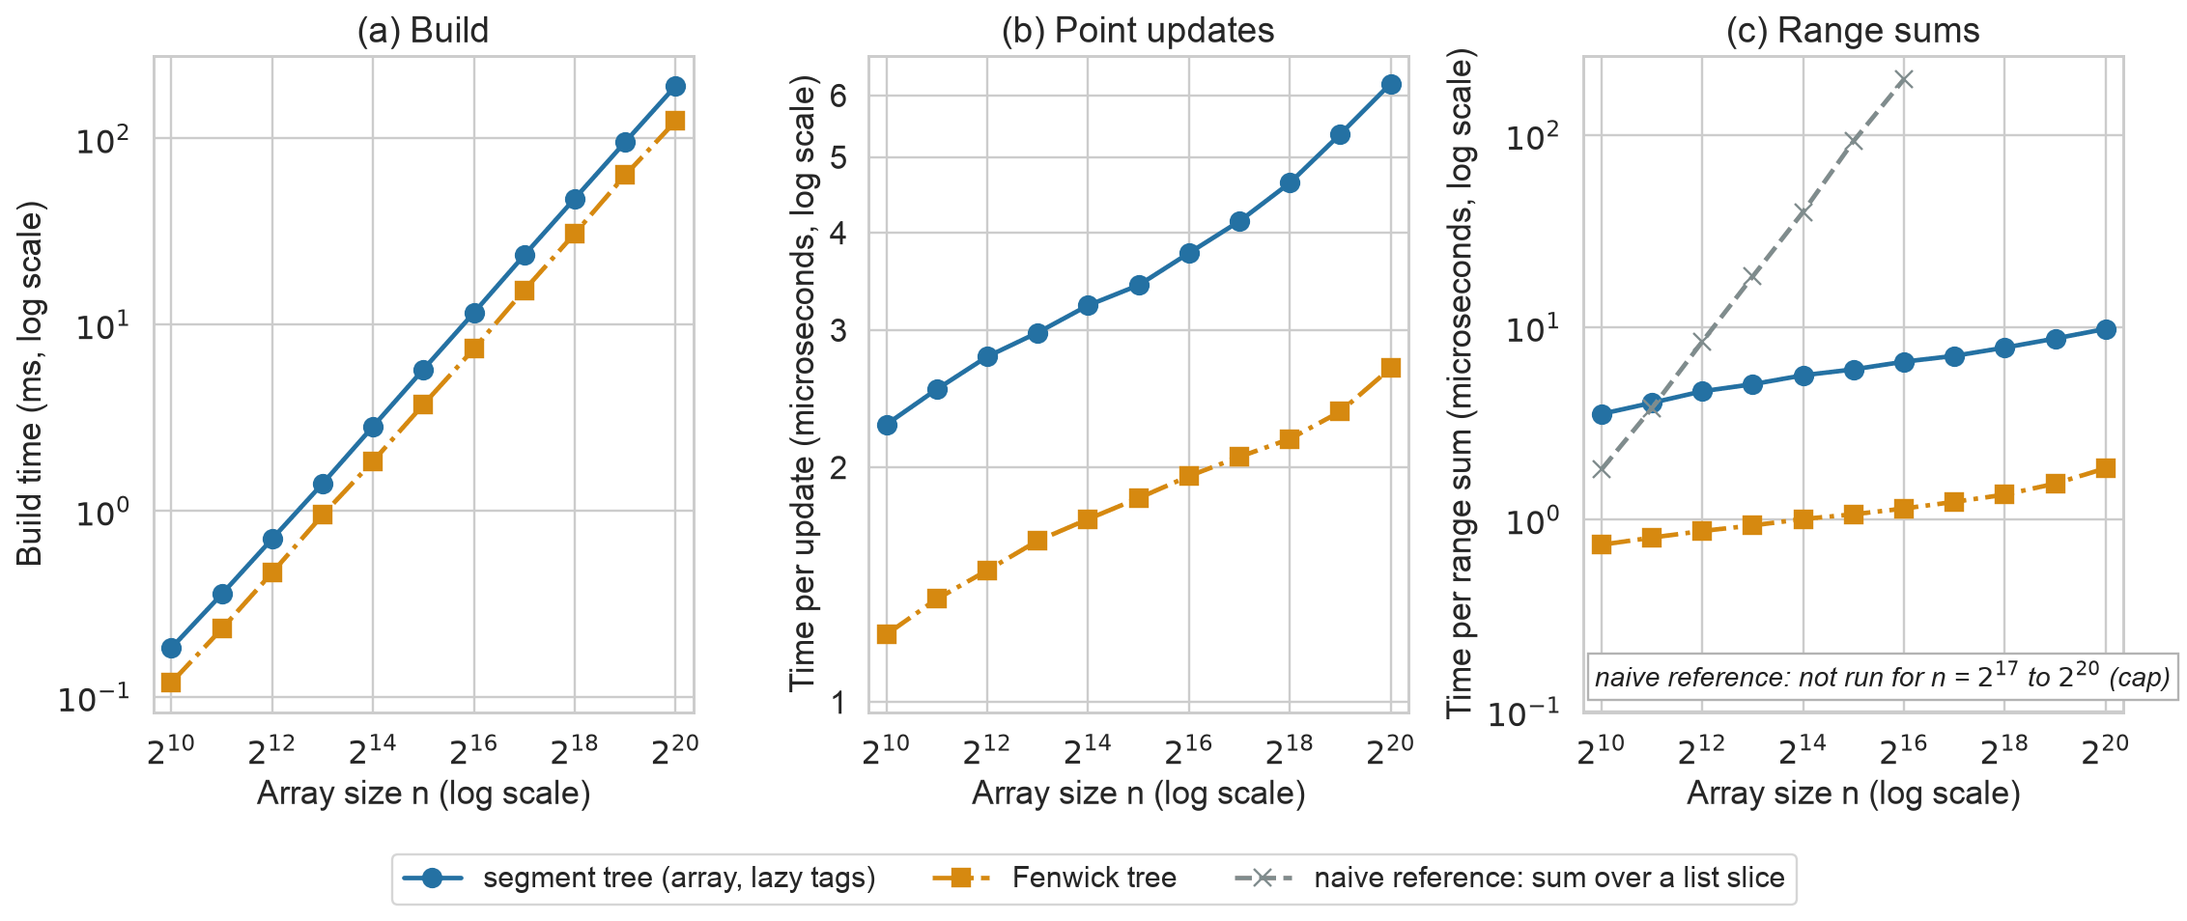
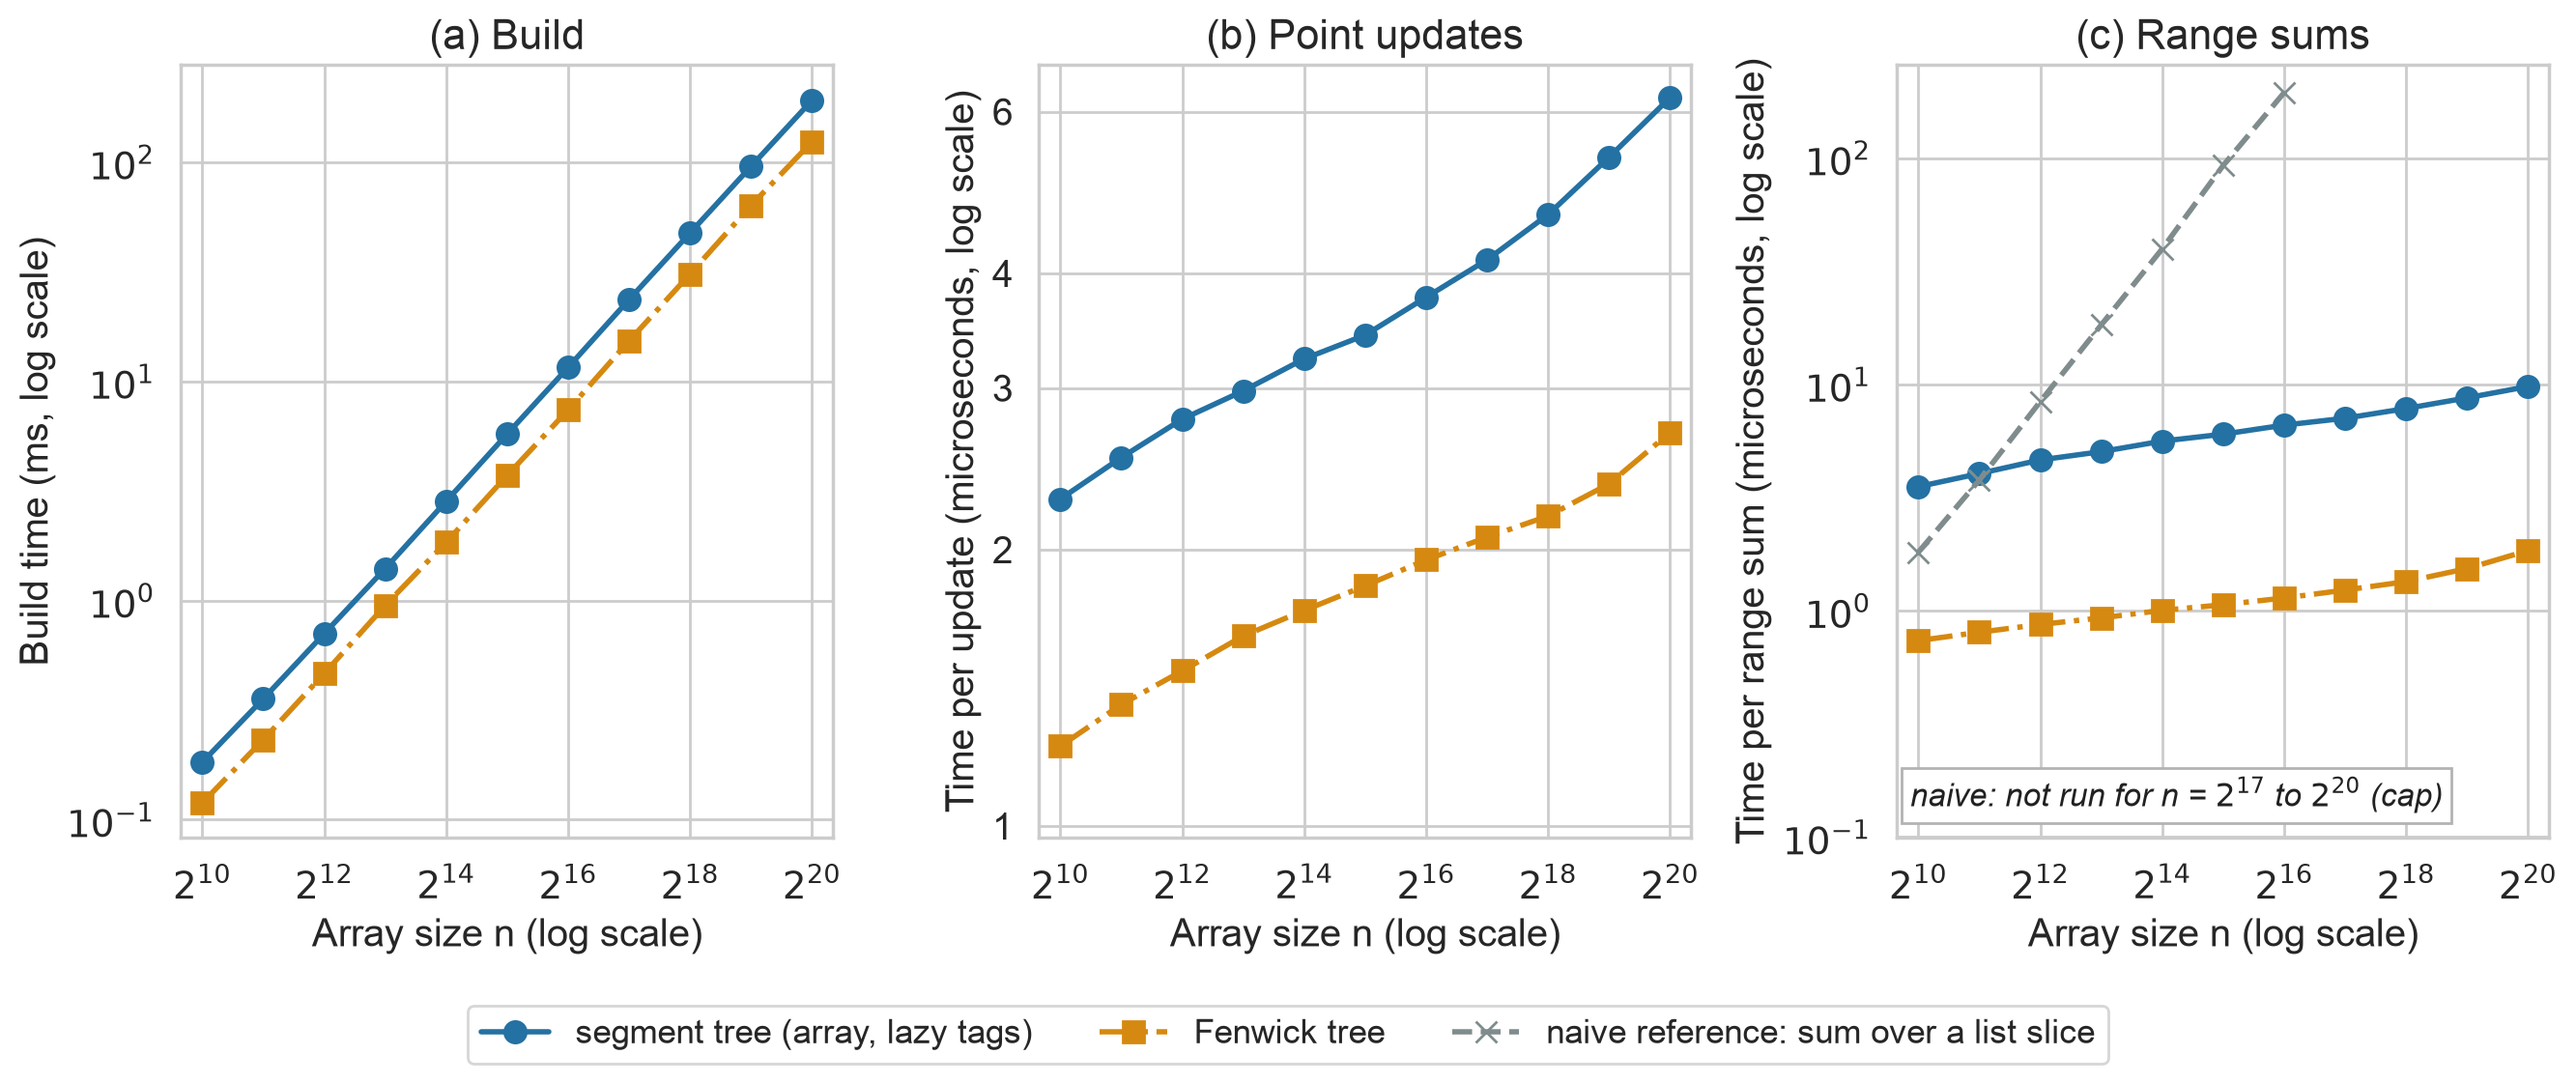
fix: keep week13 figure series and labels legible
Redrawn from the committed CSV with --redraw; benchmark.csv is unchanged. The three nearly equal wavelet query-time series are nested (large hollow circle, smaller hollow square, small triangle) so each stays visible; wavelet bar labels use three significant figures with a white box over the 1.00 reference line; the cache-miss x axes stop at the last simulated size; the segment-tree cap note fits inside its panel; the persistent-overhead figure is shorter so it prints larger, with a two-line y label; log axes spanning about a decade drop the 7 and 9 ticks.

diff --git a/src/advds/benchmarks/performance.py b/src/advds/benchmarks/performance.py
@@ -1842,8 +1842,8 @@ def _value_label(v: float) -> str:
 def _log_y(ax: Axes, reserve: float = 0.0) -> None:
     """Log y axis with readable ticks; optionally keep the bottom ``reserve`` of the axes free of data.
 
-    Ticks sit at every integer multiple of a power of ten when the data
-    span about one decade, at 1, 2 and 5 times powers of ten up to about
+    Ticks sit at integer multiples of a power of ten when the data span
+    about one decade (every one under 0.7 decades, 1, 2, 3, 4, 6 and 8 above), at 1, 2 and 5 times powers of ten up to about
     three decades, and at powers of ten (of a hundred past seven decades)
     beyond (labelled ``10^k``), so short ranges still carry labels and long
     ones are labelled one way. Under about one decade the bottom limit is
@@ -1876,7 +1876,10 @@ def _log_y(ax: Axes, reserve: float = 0.0) -> None:
     if decades > 7:
         ax.yaxis.set_major_locator(LogLocator(base=100.0, subs=(1.0,)))
     elif decades < 1.2:
-        ax.yaxis.set_major_locator(LogLocator(base=10.0, subs=tuple(float(s) for s in range(1, 10))))
+        # Every integer multiple under about 0.7 decades; above that 7 and 9
+        # are dropped so the labels near the top of a short axis do not touch.
+        subs = range(1, 10) if decades < 0.7 else (1, 2, 3, 4, 6, 8)
+        ax.yaxis.set_major_locator(LogLocator(base=10.0, subs=tuple(float(s) for s in subs)))
     else:
         ax.yaxis.set_major_locator(LogLocator(base=10.0, subs=(1.0, 2.0, 5.0) if decades <= 3.2 else (1.0,)))
     if decades > 3.2:
@@ -2109,7 +2112,8 @@ def plot_segment_vs_fenwick(rows: Sequence[Dict[str, Any]], save_path: Optional[
             all_n += [r["n"] for r in mine]
             ys = [_per_op_us(r) if per_op else r["mean_time_s"] * 1e3 for r in mine]
             _line(ax, [r["n"] for r in mine], ys, style, label)
-        notes = [t for t in (_cap_text(_pick(rows, E, s, method, capped_rows=True), label.split(":")[0])
+        notes = [t for t in (_cap_text(_pick(rows, E, s, method, capped_rows=True),
+                                       "naive" if s == "naive_reference" else label.split(":")[0])
                              for s, _, label in series) if t]
         _log_y(ax, reserve=0.22 if notes else 0.0)
         _cap_note(ax, notes, sizes)
@@ -2158,7 +2162,7 @@ def plot_persistent_overhead(rows: Sequence[Dict[str, Any]], save_path: Optional
     """
     E = "persistent_overhead"
     sizes = _FONT_MULTI
-    fig, axes = plt.subplots(2, 2, figsize=(12.5, 10.8))
+    fig, axes = plt.subplots(2, 2, figsize=(12.5, 8.0))
     (a, b), (c, d) = axes
     sets = _pick(rows, E, "persistent_segment_tree", "point_set")
     builds = {r["n"]: r for r in _pick(rows, E, "persistent_segment_tree", "build")}
@@ -2210,7 +2214,7 @@ def plot_persistent_overhead(rows: Sequence[Dict[str, Any]], save_path: Optional
     _line(d, [r["n"] for r in sq], [_per_op_us(r) for r in sq],
           {"marker": "^", "linestyle": ":", "color": "#7d3c98"}, "plain array segment tree")
     d.set_title("(d) Range-sum query time")
-    d.set_ylabel("Time per range sum (microseconds, log scale)")
+    d.set_ylabel("Time per range sum\n(microseconds, log scale)")
     for ax in (b, c, d):
         _log_y(ax, reserve=0.22 if notes else 0.0)
     for ax in (a, b, c, d):
@@ -2396,7 +2400,7 @@ def plot_wavelet_compression(rows: Sequence[Dict[str, Any]], save_path: Optional
             a.bar(pos, [v for _, v in present], width, color=colour, hatch=hatch, edgecolor="#212121",
                   linewidth=0.8, label=label, alpha=0.9)
             for p, (_, v) in zip(pos, present):
-                a.text(p, v + 0.08, f"{v:.2f}", ha="center", va="bottom", rotation=90, fontsize=10.5)
+                a.text(p, v + 0.08, f"{v:#.3g}", ha="center", va="bottom", rotation=90, fontsize=10.5)
             top = max(top, max(v for _, v in present))
     a.set_ylim(0, top * 1.35 if top else 1)
     a.set_title("(a) Payload bits per symbol")
@@ -2414,7 +2418,8 @@ def plot_wavelet_compression(rows: Sequence[Dict[str, Any]], save_path: Optional
             b.bar(pos, [v for _, v in present], width, color=colour, hatch=hatch, edgecolor="#212121",
                   linewidth=0.8, label=label, alpha=0.9)
             for p, (_, v) in zip(pos, present):
-                b.text(p, v + 0.02, f"{v:.2f}", ha="center", va="bottom", rotation=90, fontsize=10.5)
+                b.text(p, v + 0.02, f"{v:#.3g}", ha="center", va="bottom", rotation=90, fontsize=10.5,
+                       bbox={"facecolor": "white", "edgecolor": "none", "pad": 1.0})
             top = max(top, max(v for _, v in present))
     if data:
         b.axhline(1.0, color=_REF_COLOR, linestyle="--", linewidth=1.8, label="one byte per symbol (reference)")
@@ -2427,10 +2432,12 @@ def plot_wavelet_compression(rows: Sequence[Dict[str, Any]], save_path: Optional
         ax.set_xlabel("Dataset")
         ax.grid(axis="x", visible=False)
     E = "wavelet_dna"
-    series = (("wavelet_balanced", "range_count", "range_count, balanced", _SEG),
-              ("wavelet_huffman", "range_count", "range_count, Huffman", _FEN),
+    # The three wavelet series nearly coincide, so they are nested: a large
+    # hollow circle, a smaller hollow square inside it, a small triangle on top.
+    series = (("wavelet_balanced", "range_count", "range_count, balanced", dict(_SEG, hollow=True, size=13)),
+              ("wavelet_huffman", "range_count", "range_count, Huffman", dict(_FEN, hollow=True, size=9)),
               ("wavelet_balanced", "range_quantile", "range_quantile, balanced",
-               {"marker": "^", "linestyle": ":", "color": "#7d3c98"}),
+               {"marker": "^", "linestyle": ":", "color": "#7d3c98", "size": 6}),
               ("fm_index", "pattern_count", "FM pattern_count", {"marker": "D", "linestyle": "-", "color": "#1e8449"}),
               ("naive_reference", "range_count_scan", "naive count (str.count, reference)", _NAIVE),
               ("naive_reference", "pattern_count_scan", "naive pattern scan (str.find, reference)",
@@ -2518,7 +2525,7 @@ def plot_cache_misses(rows: Sequence[Dict[str, Any]], save_path: Optional[str] =
         ax.set_title(title)
         ax.set_xlabel("Matrix size n (log scale)")
         ax.set_ylabel("Simulated cache misses (log scale)")
-        _size_axis(ax, [r["n"] for r in rows if r["experiment"] == E and r["structure"] == op], powers=False)
+        _size_axis(ax, [r["n"] for r in _pick(rows, E, op, None)], powers=False)  # measured sizes; caps are in the note
         _fonts(ax, sizes)
     _figure_legend(fig, axes, sizes, ncol=3)
     return _finish(fig, save_path)
